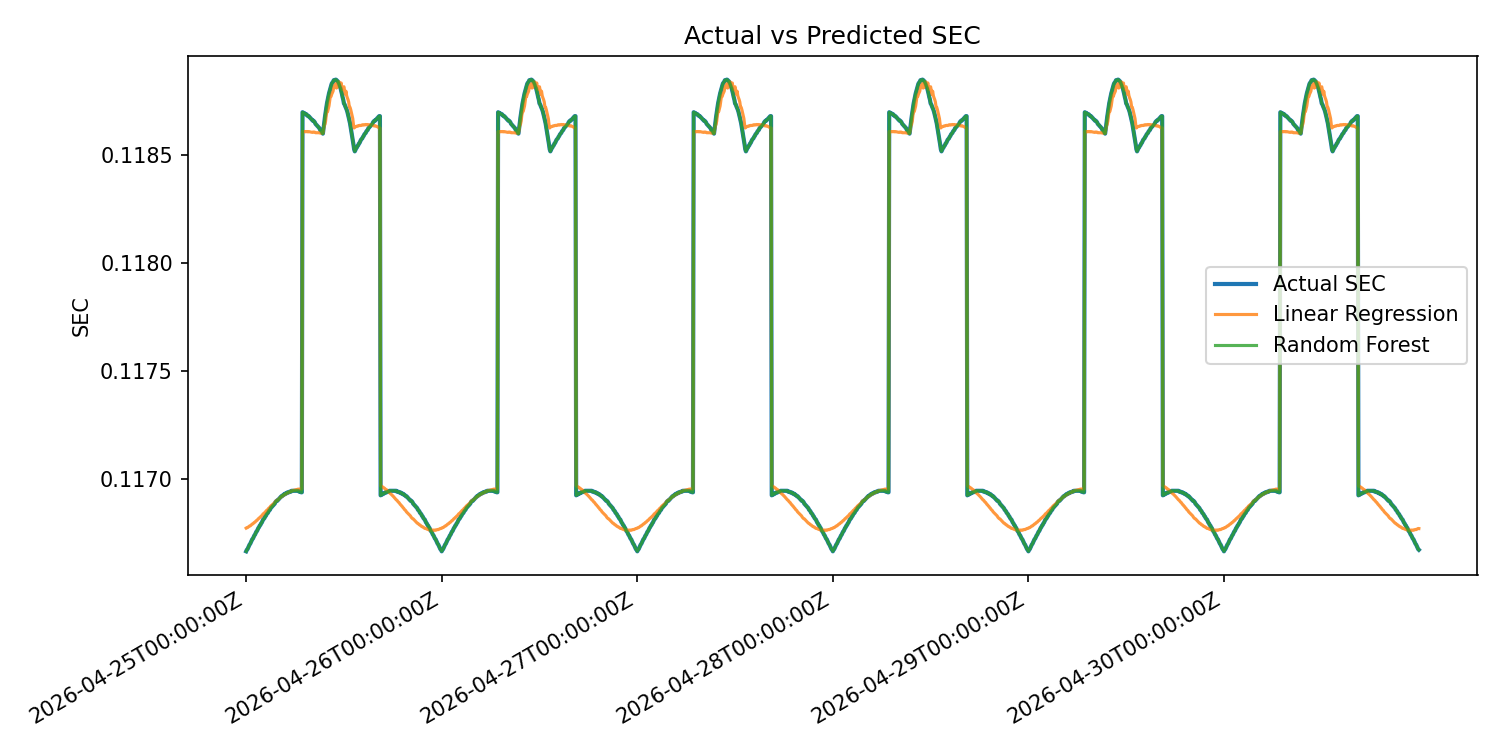
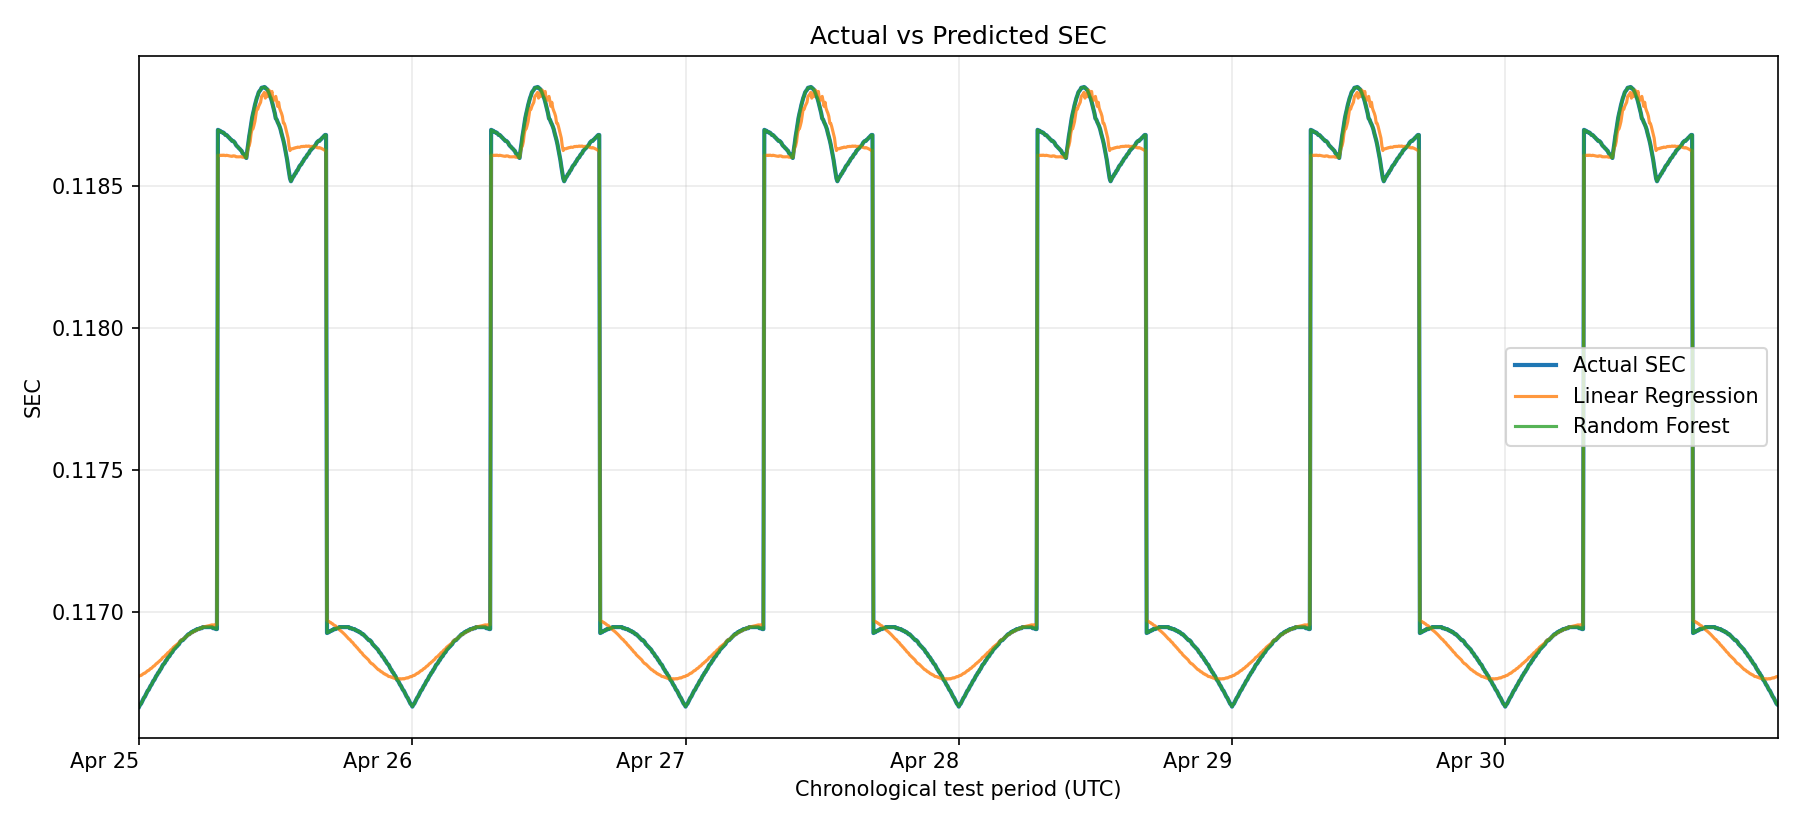
Polish ML evidence outputs

diff --git a/ml/train_sec_regression.py b/ml/train_sec_regression.py
@@ -13,6 +13,7 @@ from simulator.generator import EXPECTED_ROW_COUNT, generate_telemetry
 
 matplotlib.use("Agg")
 
+from matplotlib import dates as mdates  # noqa: E402
 from matplotlib import pyplot as plt  # noqa: E402
 
 TARGET_COLUMN = "SEC"
@@ -168,32 +169,44 @@ def train_models(
 
 
 def save_actual_vs_predicted_plot(predictions: pd.DataFrame) -> None:
-    plt.figure(figsize=(10, 5))
-    plt.plot(
-        predictions["timestamp"],
+    plot_data = predictions.copy()
+    plot_data["timestamp"] = pd.to_datetime(plot_data["timestamp"], utc=True)
+
+    fig, ax = plt.subplots(figsize=(12, 5.5))
+    ax.plot(
+        plot_data["timestamp"],
         predictions["actual_SEC"],
         label="Actual SEC",
         linewidth=2,
+        color="#1f77b4",
     )
-    plt.plot(
-        predictions["timestamp"],
+    ax.plot(
+        plot_data["timestamp"],
         predictions["linear_regression_predicted_SEC"],
         label="Linear Regression",
         alpha=0.8,
+        color="#ff7f0e",
     )
-    plt.plot(
-        predictions["timestamp"],
+    ax.plot(
+        plot_data["timestamp"],
         predictions["random_forest_predicted_SEC"],
         label="Random Forest",
         alpha=0.8,
+        color="#2ca02c",
     )
-    step = max(len(predictions) // 6, 1)
-    plt.xticks(predictions["timestamp"].iloc[::step], rotation=30, ha="right")
-    plt.ylabel("SEC")
-    plt.title("Actual vs Predicted SEC")
-    plt.legend()
-    plt.tight_layout()
-    plt.savefig(ACTUAL_VS_PREDICTED_PATH, dpi=150)
+
+    locator = mdates.DayLocator(interval=1)
+    ax.xaxis.set_major_locator(locator)
+    ax.xaxis.set_major_formatter(mdates.DateFormatter("%b %d"))
+    ax.set_xlim(plot_data["timestamp"].min(), plot_data["timestamp"].max())
+    ax.set_xlabel("Chronological test period (UTC)")
+    ax.set_ylabel("SEC")
+    ax.set_title("Actual vs Predicted SEC")
+    ax.grid(True, alpha=0.25)
+    ax.legend()
+    fig.autofmt_xdate(rotation=0)
+    fig.tight_layout()
+    fig.savefig(ACTUAL_VS_PREDICTED_PATH, dpi=150)
     plt.close()
 
 
@@ -256,8 +269,22 @@ def run_pipeline() -> tuple[pd.DataFrame, pd.DataFrame]:
 
 def main() -> None:
     metrics, _predictions = run_pipeline()
-    print("Saved ML dataset and model outputs.")
-    print(metrics.to_string(index=False))
+    print("\nSaved ML dataset and model outputs.")
+    print("ML evidence summary: synthetic telemetry, chronological holdout split")
+    print(
+        metrics.to_string(
+            index=False,
+            formatters={
+                "MAE": "{:.8f}".format,
+                "RMSE": "{:.8f}".format,
+                "R2": "{:.4f}".format,
+            },
+        )
+    )
+    print(
+        "\nArtifacts: data/processed/ml_dataset.csv, docs/ml/metrics.csv, "
+        "docs/ml/predictions.csv, docs/ml/*.png"
+    )
 
 
 if __name__ == "__main__":